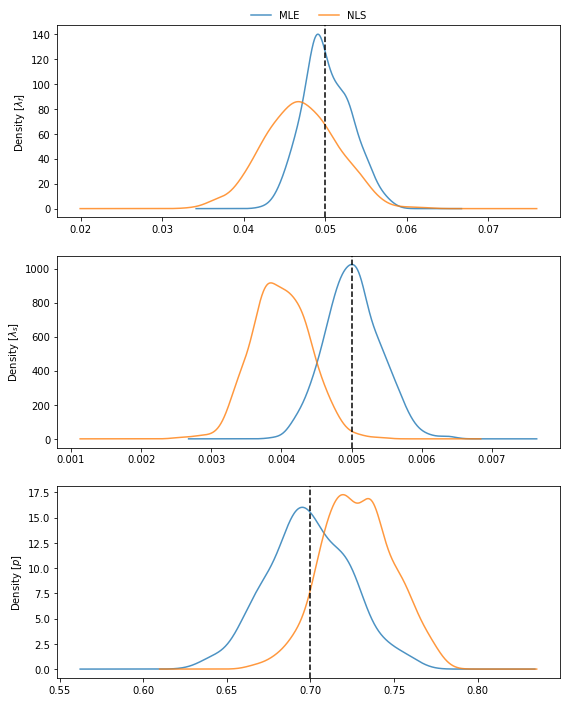
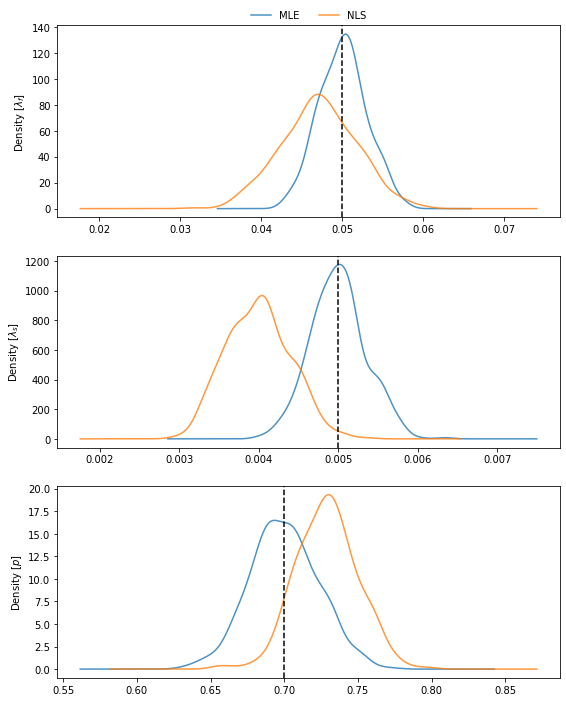
Deploying to gh-pages from  @ b72d17cce69fb50b560b420f28c0cd94753f8277 🚀

diff --git a/searchindex.js b/searchindex.js
@@ -1,1 +1,1 @@
-Search.setIndex({docnames:["bouts","boutsdemo","boutsimuldemo","index","tdr","tdrdemo","tdrphases","tdrsource","zoc"],envversion:{"sphinx.domains.c":2,"sphinx.domains.changeset":1,"sphinx.domains.citation":1,"sphinx.domains.cpp":3,"sphinx.domains.index":1,"sphinx.domains.javascript":2,"sphinx.domains.math":2,"sphinx.domains.python":2,"sphinx.domains.rst":2,"sphinx.domains.std":1,"sphinx.ext.viewcode":1,sphinx:56},filenames:["bouts.rst","boutsdemo.rst","boutsimuldemo.rst","index.rst","tdr.rst","tdrdemo.rst","tdrphases.rst","tdrsource.rst","zoc.rst"],objects:{"":{bouts:[0,0,0,"-"],tdr:[4,0,0,"-"],tdrphases:[6,0,0,"-"],tdrsource:[7,0,0,"-"],zoc:[8,0,0,"-"]},"bouts.Bouts":{bec:[0,2,1,""],fit:[0,2,1,""],init_pars:[0,2,1,""],lnfreq:[0,3,1,""],method:[0,3,1,""],plot_fit:[0,2,1,""],x:[0,3,1,""]},"bouts.BoutsMLE":{bec:[0,2,1,""],fit:[0,2,1,""],loglik_fun:[0,2,1,""],plot_ecdf:[0,2,1,""],plot_fit:[0,2,1,""]},"bouts.BoutsNLS":{bec:[0,2,1,""],fit:[0,2,1,""],plot_ecdf:[0,2,1,""]},"tdr.TDR":{calibrate:[4,2,1,""],calibrate_speed:[4,2,1,""],depth_name:[4,3,1,""],detect_dive_phases:[4,2,1,""],detect_dives:[4,2,1,""],detect_wet:[4,2,1,""],dive_stats:[4,2,1,""],extract_dive:[4,2,1,""],get_depth:[4,2,1,""],get_dive_deriv:[4,2,1,""],get_dives_details:[4,2,1,""],get_phases_params:[4,2,1,""],get_speed:[4,2,1,""],get_tdr:[4,2,1,""],get_wet_activity:[4,2,1,""],has_speed:[4,3,1,""],phases:[4,3,1,""],plot:[4,2,1,""],plot_dive_model:[4,2,1,""],plot_phases:[4,2,1,""],plot_zoc:[4,2,1,""],speed_calib_fit:[4,3,1,""],speed_name:[4,3,1,""],stamp_dives:[4,2,1,""],tdr:[4,3,1,""],tdr_file:[4,3,1,""],time_budget:[4,2,1,""],zoc:[4,2,1,""],zoc_depth:[4,3,1,""]},"tdrphases.TDRPhases":{detect_dive_phases:[6,2,1,""],detect_dives:[6,2,1,""],detect_wet:[6,2,1,""],dives:[6,3,1,""],get_dive_deriv:[6,2,1,""],get_dives_details:[6,2,1,""],get_params:[6,2,1,""],get_wet_activity:[6,2,1,""],params:[6,3,1,""],stamp_dives:[6,2,1,""],time_budget:[6,2,1,""],wet_dry:[6,3,1,""]},"tdrsource.TDRSource":{depth_name:[7,3,1,""],get_depth:[7,2,1,""],get_speed:[7,2,1,""],get_tdr:[7,2,1,""],has_speed:[7,3,1,""],speed_name:[7,3,1,""],tdr:[7,3,1,""],tdr_file:[7,3,1,""]},"zoc.ZOC":{__call__:[8,2,1,""],__init__:[8,2,1,""],__weakref__:[8,3,1,""],depth_zoc:[8,3,1,""],filter_depth:[8,2,1,""],filters:[8,3,1,""],get_depth:[8,2,1,""],get_params:[8,2,1,""],method:[8,3,1,""],offset_depth:[8,2,1,""],params:[8,3,1,""]},bouts:{Bouts:[0,1,1,""],BoutsMLE:[0,1,1,""],BoutsNLS:[0,1,1,""],label_bouts:[0,4,1,""]},tdr:{TDR:[4,1,1,""]},tdrphases:{TDRPhases:[6,1,1,""]},tdrsource:{TDRSource:[7,1,1,""]},zoc:{ZOC:[8,1,1,""]}},objnames:{"0":["py","module","Python module"],"1":["py","class","Python class"],"2":["py","method","Python method"],"3":["py","attribute","Python attribute"],"4":["py","function","Python function"]},objtypes:{"0":"py:module","1":"py:class","2":"py:method","3":"py:attribute","4":"py:function"},terms:{"000e":2,"012e":[1,5],"016e":2,"021e":2,"039e":1,"047e":5,"054e":2,"05t11":5,"07t":5,"07t11":5,"110e":[1,2],"120e":[1,5],"139e":1,"140e":2,"191e":1,"217e":1,"272e":2,"277e":5,"279e":2,"283e":5,"297e":1,"317e":[1,5],"34199nan":5,"375e":1,"381e":1,"388e":1,"399e":2,"3x3":1,"406e":5,"415e":2,"450e":5,"457e":1,"462e":5,"464e":1,"468e":1,"485e":5,"508e":5,"511e":1,"515e":1,"544e":5,"554e":2,"559e":2,"570e":1,"574e":1,"591e":5,"5sampling_rate_unit":5,"611e":1,"630e":5,"724e":2,"753e":2,"759e":1,"773e":5,"778e":1,"780e":5,"793e":1,"797e":1,"806e":1,"834e":1,"857e":5,"911e":1,"916e":2,"918e":2,"922e":1,"934e":1,"962e":1,"982e":5,"983e":2,"989e":5,"990e":2,"abstract":3,"break":0,"case":0,"class":[1,3,5],"default":[0,4,8],"float":[0,4,6],"function":[0,1,2,3,4,5,8],"import":[1,2,3,4,5,7],"int":[4,6],"null":1,"return":[0,1,2,4,6,7,8],"super":0,"true":[0,1,2,4,5,6,7,8],Axes:[0,4],For:[0,1,2,4,5,8],Iles:5,NLS:[0,1,3],N_s:0,One:0,The:[0,1,2,3,4],These:0,Use:7,Using:4,__call__:8,__init__:[5,8],__weakref__:8,_factr:1,_fig1x1:[1,5],_fig1x2:1,_fig2x1:5,_fig3x1:[1,2,5],abov:[0,2,4],abs:1,access:4,accessor:[5,6,8],accord:0,accumul:2,activ:[4,6],add:0,added:0,addit:4,ag_022:5,ag_mk7_2002_022:5,again:1,agplv3:5,aim:4,algorithm:1,all:[0,4,6],allow:[1,5],along:2,also:[0,3],altern:[2,5],analys:3,analysi:3,animal_id:5,animal_species_common:5,animal_species_sci:5,anoth:1,antarct:5,api:[3,5],append:2,appli:[0,4,5,8],applic:6,approach:[0,1],appropri:1,aquat:6,archiv:5,arctocephalu:5,arg:4,argument:[0,4,6,8],arrai:[0,1,5,7,8],array_lik:[0,4,6],as_diff:[0,1],asc_angl:1,asc_mean_spe:1,asc_tdist:1,ascd_25:[1,5],ascd_50:[1,5],ascd_75:[1,5],ascd_max:[1,5],ascd_mean:[1,5],ascd_min:[1,5],ascd_std:[1,5],ascdist:[1,5],ascent:6,ascent_crit:5,ascent_crit_q:[1,4,5,6],ascent_crit_r:5,asctim:[1,5],assess:2,assum:[0,1],attempt:[0,1],attribut:[0,4,6],avail:[1,3],averag:0,axes:5,axi:[1,4],axs:1,bad:4,bandwidth:5,base:[0,1,4,7],basi:0,basic:0,bec:[0,1],beg:[1,5],begasc:[1,5],begdesc:[1,5],begin:[4,5,6],behaviour:[0,3],belong:0,below:0,between:[0,1],bfg:[1,2],bia:2,bin:[0,1],biologiqu:5,bird:5,bivari:4,bnd1:1,bnd2:1,bool:[0,4,6,7],bott_mean_spe:1,bott_tdist:1,bottd_25:1,bottd_50:1,bottd_75:1,bottd_max:1,bottd_mean:1,bottd_min:1,bottd_std:1,bottdep_mean:1,bottdep_median:1,bottdep_sd:1,bottdist:[1,5],bottom:6,botttim:[1,5],bound:[1,2],bout:3,boutsdemo:1,boutsimuldemo:2,boutsml:[0,1,2],boutsnl:[0,1,2],brief:1,broadest:[4,6],broken:[0,3],budget:3,build:0,built:0,bz2:4,calc_p:2,calcul:[0,3,4],calib_depth:4,calib_spe:4,calibr:[1,3],calibrate_spe:[4,5],calibratedepth:[4,6,8],can:[0,2,3,4,5,6],capabl:4,categor:6,ccvar:5,center:0,centr:5,central:2,chang:[4,5],character:2,chize:5,choos:1,chooser:2,chosen:[0,8],classifi:0,clone:3,coef:[0,2,5],coeffici:[0,1],coefs2:1,coefs3:1,coefs_i:2,coefs_ml:2,coefs_nl:2,collect:2,column:[0,1,2,4,5,6],column_nam:5,com:[3,5],come:[0,4,7],command:3,compar:[1,3],comparison:[1,2],complet:[4,6],comprehens:4,compress:4,comput:[4,5],concat:1,concur_var:[4,5],concur_var_titl:4,concurr:5,consid:[1,5],construct:[0,4],contour:4,contour_level:4,control:5,conveni:4,converg:1,convert:[1,2],coordin:5,copi:[1,2,4,5],core:[1,6],correct:[4,5,6,8],correspond:[0,4,6],count:[1,2],covari:[0,1],creat:[0,1],crit_val:[5,6],criteria:0,criterion:[0,1],crozet:5,csv:[4,5],csvxarrai:5,cumul:[0,1],current:0,dai:5,data:[0,1,3,4,6,7],data_creation_d:5,data_format:5,data_nfil:5,data_path:4,data_sourc:5,dataarrai:[4,5,6,7,8],datafram:[0,1,2,4,6,8],dataset:[4,7],date:5,date_tim:5,datetime64:[1,5],declar:2,def:2,defin:[2,4,7,8],definit:7,demo:[1,2,5],densiti:[0,2,4],dep:5,dep_device_regional_set:5,dep_device_tzon:5,dep_id:5,deploy_device_time_on:5,deploy_lat:5,deploy_loc:5,deploy_lon:5,deploy_method:5,depth:[3,4,5,6,7,8],depth_bound:[4,8],depth_deriv:4,depth_lim:[4,5],depth_nam:[4,5,7],depth_zoc:8,depthax:5,depthdescript:5,depthunit:5,deriv:[4,6],desc_angl:1,desc_mean_spe:1,desc_tdist:1,descd_25:1,descd_50:1,descd_75:1,descd_max:1,descd_mean:1,descd_min:1,descd_std:1,descdist:[1,5],descent:6,descent_crit:5,descent_crit_q:[1,4,5,6],descent_crit_r:5,describ:[0,2],descript:5,desctim:[1,5],detail:[4,6,8],detect:[5,6],detect_d:[4,6],detect_dive_phas:[4,6],detect_wet:[4,6],determin:0,dev:3,device_mak:5,device_model:5,device_typ:5,dfile:5,dict:[1,2,4,5,6,8],dictionari:[0,4,6,8],diff:[0,1],differ:5,dirnam:5,discern:[0,1],displai:[1,2,5],distribut:[0,1,2],dive:[1,3,4,6],dive_id:5,dive_model:[1,4,5,6],dive_phas:5,dive_stat:[1,4,5],dive_thr:[1,4,5,6],divemov:[4,5,6,8],divemove2skd:[1,4,5,7],diveno:[4,5,6],divestat:4,divetim:[1,5],doe:[0,1],done:[1,5],download:[1,2,5],dry:[4,5,6],dry_thr:[1,4,5,6],dtype:[1,2,5],durat:[3,5],each:[0,2,4,5,6],easili:[1,3],element:[0,4,6],empir:0,empti:0,encapsul:4,end:[0,1,4,5,6],enddesc:[1,5],energet:5,ensur:7,entri:1,environ:[1,2,5],epsmch:1,equat:0,err:5,estim:[0,3,4],etud:5,event:[0,4,6],exampl:[4,5,7],exponenti:2,express:0,extract:[1,4],extract_d:4,eye:5,fail:1,fals:[0,2,4,5,6,7],fast:0,feel:[1,2,5],fewer:1,fig:[1,5],figsiz:[1,4,5],figur:[1,2,4,5],file:[3,4,7],fill:[4,6],filter:[3,4,8],filter_depth:8,find:0,finer:5,first:[0,1],fit1:[0,1,2],fit1_opt:[0,1,2],fit2:[0,1,2],fit2_opt:[0,1,2],fit:[0,1,2,4],fix:2,float64:[1,2],fname:4,focu:3,follow:[0,2,3,5],forag:5,form:0,format:1,found:4,frac:0,frame:1,framework:0,franc:5,free:[1,2,5],frequenc:[0,1],from:[0,1,2,3,4,7],full_nam:5,fun:1,fur:5,further:[1,2],gazella:5,gca:0,gener:[0,1,3],genx:2,get_depth:[4,5,7,8],get_dive_deriv:[4,6],get_divemove_sample_data:4,get_dives_detail:[4,5,6],get_param:[6,8],get_phases_param:[4,5],get_spe:[4,7],get_tdr:[4,7],get_wet_act:[4,5,6],getcwd:5,git:3,github:3,given:[0,1,4,6],glu:5,gmail:5,greater:4,group:2,guess:1,guinet:2,h2o:5,h2ounits_nam:5,hacker:3,handl:[0,3,6],has:3,has_spe:[4,5,7],have:[0,1],help:1,helper:5,henc:0,here:[1,2,5],hess_inv:1,histogram:[0,1],home:5,homolog:4,host:3,http:3,identif:[0,4,6],identifi:[4,6],ifil:5,ignor:[4,6],ignore_du:[4,5,6],ignore_z:[1,4,5,6],implement:0,impli:0,includ:[4,7],independ:0,index:[0,3,6],indian:5,indic:[0,4,7],info:1,inform:[4,6],init_par:[0,1,2],init_pars2:1,init_pars3:1,initi:8,inlin:[1,2,5],input:[0,4,6,7],instanc:[0,1,4,6],instanti:4,int64:1,int64index:1,integ:0,interact:4,intercept:5,interd:1,interfac:3,interp_wet:[4,6],interv:[1,5],involv:1,isol:1,iter:2,jac:1,job:5,join:5,jul:5,kei:[4,6],kernel:4,keyword:[0,4,8],kind:4,kinemat:3,knot_factor:[1,4,5,6],kwarg:[0,4,7,8],l_2:0,label:[1,4,6],label_bout:[0,1],lambda0:2,lambda1:[1,2],lambda2:1,lambda:[0,1,2],lambda_:[0,2],lambda_f:[0,2],larger:[4,5],last:1,lbfgsinvhessproduct:1,lda0:2,lda0_bnd:2,lda0_tru:2,lda1:2,lda1_bnd:[1,2],lda1_tru:2,lda2_bnd:1,least:[3,5],length:[0,1,4],level:4,light:5,likelihood:3,limit:[0,4],line:[3,4],linear:[0,3],list:[0,3,4,5,8],lnfreq:[0,1],load:[1,5],loc:2,locat:3,log:[0,1,5],logger:[1,5],loglik_fun:0,loop:2,loos:5,low:4,luqu:[2,5],mai:1,main:3,major:4,manner:5,mask:[4,6],match:0,matplotlib:[0,1,2,4,5],max:[1,2],maxdep:1,maximum:[3,4],mean:[1,2],measur:[3,4,6,7,8],memori:1,mesh:4,messag:1,metaclass:0,metadata:7,meter:5,meterscolumn_nam:5,method:[1,2,3,5],min:[1,2],minim:0,minimum:4,minor:4,miscellan:3,mix:[0,2],mixtur:[0,1,3],mk7:5,mle:3,mle_coef:2,mlm:1,model:[2,3,4,5,6],modifi:1,modul:[1,4,5],monitor:[1,5],more:[0,4,8],must:[0,3],mustwork:4,n_f:0,n_t:0,na_rm:[4,8],name:[0,1,4,5,6,7,8],nan:5,nanarrai:5,ndarrai:[0,1],necessari:1,need:[0,1,2,3],nfev:1,nit:1,njev:1,nls_coef:2,non:[0,3],none:[0,1,2,4,5,6,8],nonlinear:[2,3],note:[0,1,4,6,8],nsamp:2,nsim:2,number:[0,2,4,5,6],numpi:[1,2,5],object:[0,1,4,5,8],observ:[0,5,8],obtain:[0,2,4],occur:0,ocean:5,offer:0,offset:[1,4,5,6,8],offset_depth:8,offset_zoc:[1,5],onc:3,one:[0,1,2],ones:0,onli:[0,1,2,4,5],oper:[2,4,6],optim:[0,1],optimizeresult:0,option:[0,1,4,6,8],opts1:2,opts2:2,order:0,osp:[1,5],other:[0,5],otherwis:1,out:[0,4,6],output:8,over:0,p_bnd:[1,2],p_i:2,p_true:2,packag:[3,4],page:3,panda:[0,1,2,4,5,6,8],par:[1,5],param:[0,6,8],paramet:[0,1,2,4,5,6,8],paramt:0,pars_tru:2,particular:[4,5],pass:[0,4,8],path:[1,4,5],pcov2:1,pcov3:1,pcov:0,per:0,perform:[2,4,5,8],period:6,pfull_nam:5,phase:6,phase_id:[1,5],phase_label:5,pip:3,pleas:5,plot:[0,1,2,3],plot_dive_model:[4,5],plot_ecdf:[0,1],plot_fit:[0,1],plot_phas:[4,5],plot_zoc:[4,5],plt:[1,2],plu:0,poisson:[0,1,2],popul:0,postdiv:3,postdive_dur:[1,5],postdive_id:5,postdive_mean_spe:[1,5],postdive_tdist:[1,5],postdives_diff:1,postdives_mlebout:1,postdives_nlsbout:1,precis:[1,2,5],prefer:0,pressur:5,previou:0,primarili:3,print:[1,5,7],prob:[4,8],probabl:[0,4],proc1:2,proc2:2,proc_mix:2,procedur:[0,1],process:[0,3,4,5],progress:[1,5],project:3,project_date_beg:5,project_date_end:5,project_nam:5,prompt:3,proport:0,provid:[0,1,3,4,6],provider_affili:5,provider_email:5,provider_licens:5,provider_nam:5,pseudo:[5,7],pyplot:[0,1,2,4],pytest:3,python:3,qfit:5,quantil:4,quantreg:[4,5],random:[0,1,2],rang:[2,4,5,8],rate:[2,4],read:3,readili:2,reason:[0,1],record:[3,4,5],refer:8,regress:[4,5],regular:5,regularsampling_r:5,rel:2,rel_reduction_of_f_:1,reli:[0,1],remov:1,reparameter:1,repres:3,requir:[1,3],residu:5,respect:[0,4],result:[0,2,5],retriev:[4,6],robj:4,robust:0,roll:2,routin:6,row:5,row_id:[4,5,6],row_stack:2,rstr:4,run:3,runner:5,salt:5,same:[0,5],sampl:[0,2,5],sampling_r:5,sampling_rate_unit:5,save:4,save_fig:4,scale:[0,2,4,6],scientif:3,scikit:5,scipi:0,seal:5,search:3,sebastian:5,second:[0,1],section:[1,4,5],see:[4,5,6],seem:1,select:4,sensors_list:5,sep:4,seri:[0,2,5,6],session:4,set:[0,1,2,4,5,6],set_opt:[1,2,5],set_printopt:[1,2,5],set_titl:1,setup:3,shape:0,should:4,sign:[1,2,5],simpli:5,simplifi:2,simul:3,singl:[0,5],size:[1,2,5],skbout:[1,2],skdive:[3,5],skdivemov:[1,2,3,4,5,7],slow:0,smooth:[4,6],smooth_par:[1,4,5,6],sname:5,solut:0,sort:0,sourc:[0,3,4,5,6,7,8],southern:5,sparsiti:5,speed:[4,7],speed_calib_fit:4,speed_nam:[4,7],spline:[4,6],spline_deriv:[5,6],spluqu:[3,5],squar:[3,5],stamp:[1,3,6],stamp_div:[1,4,5,6],standard:[0,1,7],start:[0,1],stat:1,statist:[1,3,4],stats_tab:1,statu:1,std:[1,2,5],step:[1,5],stepwis:5,stick:[0,3],store:[4,6],str:[0,4,6,7,8],string:[4,7],subantarct:5,subclass:[0,4],subject:[0,1],subplot:[1,4],success:1,sum_:0,summar:3,summari:[3,5],sun:5,suppli:1,surfac:[4,5],system:4,t_i:0,take:6,target:0,tau:4,tdr:[1,3,6,7],tdr_file:[4,7],tdrdemo:5,tdrphase:[3,4],tdrsourc:[3,4],tdrx:[1,4,5,7],temperatur:5,termin:3,test:[1,4,5,7],than:[4,5],therefor:1,thi:[0,1,2,4,5,6,8],third:0,three:6,threshold:4,throughout:2,thy:6,time:[2,3,4,6],time_budget:[4,5,6],timedelta64:1,timedelta:1,to_numpi:2,tool:0,total:[1,5],total_second:1,transform:0,transit:0,tree:3,trivial:6,tupl:4,two:[0,3,4],type:[0,1,3,4,6,7,8],underli:0,underwat:6,uniform:2,unimod:[1,4,5,6],unit:5,units_label:5,units_nam:5,unittest:3,unlik:[4,6],updat:[4,6],upper:0,usag:1,use:[0,4,5,8],used:[0,4,6,8],user:3,using:[0,4,5],util:3,valu:[0,1,2,4,5],variabl:[1,2,4,5,7],varianc:2,via:[0,3,4,6],view:5,vignett:5,visual:[2,3],wai:1,weak:8,were:4,wet:[4,5,6],wet_act:[4,6],wet_cond:[4,6],wet_dri:[4,5,6],wet_thr:[1,4,5,6],when:6,where:[0,2,4,7],whether:[0,4,6,7],which:[3,4,6],width:[0,1],wildlif:5,window:4,without:1,work:5,would:0,wrap:4,x27:5,x_break:0,xarrai:[4,5,6,7,8],xbout:2,xlim:[4,5],ylim:4,yyyi:5,zero:[4,5,6,8],zoc:[3,4,5],zoc_depth:4,zoc_method:[1,4,5]},titles:["Bout analysis","Bout analysis","Simulating bouts","scikit-diveMove Documentation","TDR class","Diving behaviour analysis","TDRPhases class","TDRSource class","ZOC class"],titleterms:{"abstract":0,"class":[0,4,6,7,8],NLS:2,access:5,analys:4,analysi:[0,1,5],api:[0,4],attribut:5,behaviour:5,bout:[0,1,2],broken:1,budget:5,calcul:1,calibr:[4,5],compar:2,data:5,demo:3,depend:3,detect:4,develop:3,dive:5,divemov:3,document:3,durat:1,estim:[1,2],file:5,gener:2,indic:3,instal:3,instanc:5,least:[0,1,2],likelihood:[0,1,2],linear:[1,2],main:4,maximum:[0,1,2],measur:5,method:[0,4,6,8],mixtur:2,mle:2,model:[0,1],modul:3,non:[1,2],nonlinear:0,phase:[4,5],plot:[4,5],postdiv:1,process:[1,2],read:5,scikit:3,simul:2,speed:5,squar:[0,1,2],stamp:5,statist:5,stick:1,summari:[0,4,6,8],tabl:3,tdr:[4,5],tdrphase:6,tdrsourc:7,test:3,three:1,time:5,two:[1,2],via:1,zoc:8}})
+Search.setIndex({docnames:["bouts","boutsdemo","boutsimuldemo","index","tdr","tdrdemo","tdrphases","tdrsource","zoc"],envversion:{"sphinx.domains.c":2,"sphinx.domains.changeset":1,"sphinx.domains.citation":1,"sphinx.domains.cpp":3,"sphinx.domains.index":1,"sphinx.domains.javascript":2,"sphinx.domains.math":2,"sphinx.domains.python":2,"sphinx.domains.rst":2,"sphinx.domains.std":1,"sphinx.ext.viewcode":1,sphinx:56},filenames:["bouts.rst","boutsdemo.rst","boutsimuldemo.rst","index.rst","tdr.rst","tdrdemo.rst","tdrphases.rst","tdrsource.rst","zoc.rst"],objects:{"":{bouts:[0,0,0,"-"],tdr:[4,0,0,"-"],tdrphases:[6,0,0,"-"],tdrsource:[7,0,0,"-"],zoc:[8,0,0,"-"]},"bouts.Bouts":{bec:[0,2,1,""],fit:[0,2,1,""],init_pars:[0,2,1,""],lnfreq:[0,3,1,""],method:[0,3,1,""],plot_fit:[0,2,1,""],x:[0,3,1,""]},"bouts.BoutsMLE":{bec:[0,2,1,""],fit:[0,2,1,""],loglik_fun:[0,2,1,""],plot_ecdf:[0,2,1,""],plot_fit:[0,2,1,""]},"bouts.BoutsNLS":{bec:[0,2,1,""],fit:[0,2,1,""],plot_ecdf:[0,2,1,""]},"tdr.TDR":{calibrate:[4,2,1,""],calibrate_speed:[4,2,1,""],depth_name:[4,3,1,""],detect_dive_phases:[4,2,1,""],detect_dives:[4,2,1,""],detect_wet:[4,2,1,""],dive_stats:[4,2,1,""],extract_dive:[4,2,1,""],get_depth:[4,2,1,""],get_dive_deriv:[4,2,1,""],get_dives_details:[4,2,1,""],get_phases_params:[4,2,1,""],get_speed:[4,2,1,""],get_tdr:[4,2,1,""],get_wet_activity:[4,2,1,""],has_speed:[4,3,1,""],phases:[4,3,1,""],plot:[4,2,1,""],plot_dive_model:[4,2,1,""],plot_phases:[4,2,1,""],plot_zoc:[4,2,1,""],speed_calib_fit:[4,3,1,""],speed_name:[4,3,1,""],stamp_dives:[4,2,1,""],tdr:[4,3,1,""],tdr_file:[4,3,1,""],time_budget:[4,2,1,""],zoc:[4,2,1,""],zoc_depth:[4,3,1,""]},"tdrphases.TDRPhases":{detect_dive_phases:[6,2,1,""],detect_dives:[6,2,1,""],detect_wet:[6,2,1,""],dives:[6,3,1,""],get_dive_deriv:[6,2,1,""],get_dives_details:[6,2,1,""],get_params:[6,2,1,""],get_wet_activity:[6,2,1,""],params:[6,3,1,""],stamp_dives:[6,2,1,""],time_budget:[6,2,1,""],wet_dry:[6,3,1,""]},"tdrsource.TDRSource":{depth_name:[7,3,1,""],get_depth:[7,2,1,""],get_speed:[7,2,1,""],get_tdr:[7,2,1,""],has_speed:[7,3,1,""],speed_name:[7,3,1,""],tdr:[7,3,1,""],tdr_file:[7,3,1,""]},"zoc.ZOC":{__call__:[8,2,1,""],__init__:[8,2,1,""],__weakref__:[8,3,1,""],depth_zoc:[8,3,1,""],filter_depth:[8,2,1,""],filters:[8,3,1,""],get_depth:[8,2,1,""],get_params:[8,2,1,""],method:[8,3,1,""],offset_depth:[8,2,1,""],params:[8,3,1,""]},bouts:{Bouts:[0,1,1,""],BoutsMLE:[0,1,1,""],BoutsNLS:[0,1,1,""],label_bouts:[0,4,1,""]},tdr:{TDR:[4,1,1,""]},tdrphases:{TDRPhases:[6,1,1,""]},tdrsource:{TDRSource:[7,1,1,""]},zoc:{ZOC:[8,1,1,""]}},objnames:{"0":["py","module","Python module"],"1":["py","class","Python class"],"2":["py","method","Python method"],"3":["py","attribute","Python attribute"],"4":["py","function","Python function"]},objtypes:{"0":"py:module","1":"py:class","2":"py:method","3":"py:attribute","4":"py:function"},terms:{"000e":2,"012e":[1,5],"016e":2,"017e":2,"039e":1,"047e":5,"05t11":5,"07t":5,"07t11":5,"110e":1,"120e":[1,5],"139e":1,"191e":1,"199e":2,"217e":1,"254e":2,"277e":5,"283e":5,"297e":1,"317e":[1,5],"330e":2,"338e":2,"34199nan":5,"375e":1,"381e":1,"388e":1,"3x3":1,"406e":5,"450e":5,"457e":1,"462e":5,"464e":1,"468e":1,"472e":2,"483e":2,"485e":5,"508e":5,"511e":1,"515e":1,"519e":2,"544e":5,"570e":1,"574e":1,"591e":5,"5sampling_rate_unit":5,"611e":1,"630e":5,"700e":2,"759e":1,"764e":2,"773e":5,"778e":1,"780e":5,"793e":1,"797e":1,"806e":1,"834e":1,"857e":5,"911e":1,"922e":1,"934e":1,"949e":2,"962e":1,"982e":5,"989e":5,"993e":2,"995e":2,"998e":2,"abstract":3,"break":0,"case":0,"class":[1,3,5],"default":[0,4,8],"float":[0,4,6],"function":[0,1,2,3,4,5,8],"import":[1,2,3,4,5,7],"int":[4,6],"null":1,"return":[0,1,2,4,6,7,8],"super":0,"true":[0,1,2,4,5,6,7,8],Axes:[0,4],For:[0,1,2,4,5,8],Iles:5,NLS:[0,1,3],N_s:0,One:0,The:[0,1,2,3,4],These:0,Use:7,Using:4,__call__:8,__init__:[5,8],__weakref__:8,_factr:1,_fig1x1:[1,5],_fig1x2:1,_fig2x1:5,_fig3x1:[1,2,5],abov:[0,2,4],abs:1,access:4,accessor:[5,6,8],accord:0,accumul:2,activ:[4,6],add:0,added:0,addit:4,ag_022:5,ag_mk7_2002_022:5,again:1,agplv3:5,aim:4,algorithm:1,all:[0,4,6],allow:[1,5],along:2,also:[0,3],altern:[2,5],analys:3,analysi:3,animal_id:5,animal_species_common:5,animal_species_sci:5,anoth:1,antarct:5,api:[3,5],append:2,appli:[0,4,5,8],applic:6,approach:[0,1],appropri:1,aquat:6,archiv:5,arctocephalu:5,arg:4,argument:[0,4,6,8],arrai:[0,1,5,7,8],array_lik:[0,4,6],as_diff:[0,1],asc_angl:1,asc_mean_spe:1,asc_tdist:1,ascd_25:[1,5],ascd_50:[1,5],ascd_75:[1,5],ascd_max:[1,5],ascd_mean:[1,5],ascd_min:[1,5],ascd_std:[1,5],ascdist:[1,5],ascent:6,ascent_crit:5,ascent_crit_q:[1,4,5,6],ascent_crit_r:5,asctim:[1,5],assess:2,assum:[0,1],attempt:[0,1],attribut:[0,4,6],avail:[1,3],averag:0,axes:5,axi:[1,4],axs:1,bad:4,bandwidth:5,base:[0,1,4,7],basi:0,basic:0,bec:[0,1],beg:[1,5],begasc:[1,5],begdesc:[1,5],begin:[4,5,6],behaviour:[0,3],belong:0,below:0,between:[0,1],bfg:[1,2],bia:2,bin:[0,1],biologiqu:5,bird:5,bivari:4,bnd1:1,bnd2:1,bool:[0,4,6,7],bott_mean_spe:1,bott_tdist:1,bottd_25:1,bottd_50:1,bottd_75:1,bottd_max:1,bottd_mean:1,bottd_min:1,bottd_std:1,bottdep_mean:1,bottdep_median:1,bottdep_sd:1,bottdist:[1,5],bottom:6,botttim:[1,5],bound:[1,2],bout:3,boutsdemo:1,boutsimuldemo:2,boutsml:[0,1,2],boutsnl:[0,1,2],brief:1,broadest:[4,6],broken:[0,3],budget:3,build:0,built:0,bz2:4,calc_p:2,calcul:[0,3,4],calib_depth:4,calib_spe:4,calibr:[1,3],calibrate_spe:[4,5],calibratedepth:[4,6,8],can:[0,2,3,4,5,6],capabl:4,categor:6,ccvar:5,center:0,centr:5,central:2,chang:[4,5],character:2,chize:5,choos:1,chooser:2,chosen:[0,8],classifi:0,clone:3,coef:[0,2,5],coeffici:[0,1],coefs2:1,coefs3:1,coefs_i:2,coefs_ml:2,coefs_nl:2,collect:2,column:[0,1,2,4,5,6],column_nam:5,com:[3,5],come:[0,4,7],command:3,compar:[1,3],comparison:[1,2],complet:[4,6],comprehens:4,compress:4,comput:[4,5],concat:1,concur_var:[4,5],concur_var_titl:4,concurr:5,consid:[1,5],construct:[0,4],contour:4,contour_level:4,control:5,conveni:4,converg:1,convert:[1,2],coordin:5,copi:[1,2,4,5],core:[1,6],correct:[4,5,6,8],correspond:[0,4,6],count:[1,2],covari:[0,1],creat:[0,1],crit_val:[5,6],criteria:0,criterion:[0,1],crozet:5,csv:[4,5],csvxarrai:5,cumul:[0,1],current:0,dai:5,data:[0,1,3,4,6,7],data_creation_d:5,data_format:5,data_nfil:5,data_path:4,data_sourc:5,dataarrai:[4,5,6,7,8],datafram:[0,1,2,4,6,8],dataset:[4,7],date:5,date_tim:5,datetime64:[1,5],declar:2,def:2,defin:[2,4,7,8],definit:7,demo:[1,2,5],densiti:[0,2,4],dep:5,dep_device_regional_set:5,dep_device_tzon:5,dep_id:5,deploy_device_time_on:5,deploy_lat:5,deploy_loc:5,deploy_lon:5,deploy_method:5,depth:[3,4,5,6,7,8],depth_bound:[4,8],depth_deriv:4,depth_lim:[4,5],depth_nam:[4,5,7],depth_zoc:8,depthax:5,depthdescript:5,depthunit:5,deriv:[4,6],desc_angl:1,desc_mean_spe:1,desc_tdist:1,descd_25:1,descd_50:1,descd_75:1,descd_max:1,descd_mean:1,descd_min:1,descd_std:1,descdist:[1,5],descent:6,descent_crit:5,descent_crit_q:[1,4,5,6],descent_crit_r:5,describ:[0,2],descript:5,desctim:[1,5],detail:[4,6,8],detect:[5,6],detect_d:[4,6],detect_dive_phas:[4,6],detect_wet:[4,6],determin:0,dev:3,device_mak:5,device_model:5,device_typ:5,dfile:5,dict:[1,2,4,5,6,8],dictionari:[0,4,6,8],diff:[0,1],differ:5,dirnam:5,discern:[0,1],displai:[1,2,5],distribut:[0,1,2],dive:[1,3,4,6],dive_id:5,dive_model:[1,4,5,6],dive_phas:5,dive_stat:[1,4,5],dive_thr:[1,4,5,6],divemov:[4,5,6,8],divemove2skd:[1,4,5,7],diveno:[4,5,6],divestat:4,divetim:[1,5],doe:[0,1],done:[1,5],download:[1,2,5],dry:[4,5,6],dry_thr:[1,4,5,6],dtype:[1,2,5],durat:[3,5],each:[0,2,4,5,6],easili:[1,3],element:[0,4,6],empir:0,empti:0,encapsul:4,end:[0,1,4,5,6],enddesc:[1,5],energet:5,ensur:7,entri:1,environ:[1,2,5],epsmch:1,equat:0,err:5,estim:[0,3,4],etud:5,event:[0,4,6],exampl:[4,5,7],exponenti:2,express:0,extract:[1,4],extract_d:4,eye:5,fail:1,fals:[0,2,4,5,6,7],fast:0,feel:[1,2,5],fewer:1,fig:[1,5],figsiz:[1,4,5],figur:[1,2,4,5],file:[3,4,7],fill:[4,6],filter:[3,4,8],filter_depth:8,find:0,finer:5,first:[0,1],fit1:[0,1,2],fit1_opt:[0,1,2],fit2:[0,1,2],fit2_opt:[0,1,2],fit:[0,1,2,4],fix:2,float64:[1,2],fname:4,focu:3,follow:[0,2,3,5],forag:5,form:0,format:1,found:4,frac:0,frame:1,framework:0,franc:5,free:[1,2,5],frequenc:[0,1],from:[0,1,2,3,4,7],full_nam:5,fun:1,fur:5,further:[1,2],gazella:5,gca:0,gener:[0,1,3],genx:2,get_depth:[4,5,7,8],get_dive_deriv:[4,6],get_divemove_sample_data:4,get_dives_detail:[4,5,6],get_param:[6,8],get_phases_param:[4,5],get_spe:[4,7],get_tdr:[4,7],get_wet_act:[4,5,6],getcwd:5,git:3,github:3,given:[0,1,4,6],glu:5,gmail:5,greater:4,group:2,guess:1,guinet:2,h2o:5,h2ounits_nam:5,hacker:3,handl:[0,3,6],has:3,has_spe:[4,5,7],have:[0,1],help:1,helper:5,henc:0,here:[1,2,5],hess_inv:1,histogram:[0,1],home:5,homolog:4,host:3,http:3,identif:[0,4,6],identifi:[4,6],ifil:5,ignor:[4,6],ignore_du:[4,5,6],ignore_z:[1,4,5,6],implement:0,impli:0,includ:[4,7],independ:0,index:[0,3,6],indian:5,indic:[0,4,7],info:1,inform:[4,6],init_par:[0,1,2],init_pars2:1,init_pars3:1,initi:8,inlin:[1,2,5],input:[0,4,6,7],instanc:[0,1,4,6],instanti:4,int64:1,int64index:1,integ:0,interact:4,intercept:5,interd:1,interfac:3,interp_wet:[4,6],interv:[1,5],involv:1,isol:1,iter:2,jac:1,job:5,join:5,jul:5,kei:[4,6],kernel:4,keyword:[0,4,8],kind:4,kinemat:3,knot_factor:[1,4,5,6],kwarg:[0,4,7,8],l_2:0,label:[1,4,6],label_bout:[0,1],lambda0:2,lambda1:[1,2],lambda2:1,lambda:[0,1,2],lambda_:[0,2],lambda_f:[0,2],larger:[4,5],last:1,lbfgsinvhessproduct:1,lda0:2,lda0_bnd:2,lda0_tru:2,lda1:2,lda1_bnd:[1,2],lda1_tru:2,lda2_bnd:1,least:[3,5],length:[0,1,4],level:4,light:5,likelihood:3,limit:[0,4],line:[3,4],linear:[0,3],list:[0,3,4,5,8],lnfreq:[0,1],load:[1,5],loc:2,locat:3,log:[0,1,5],logger:[1,5],loglik_fun:0,loop:2,loos:5,low:4,luqu:[2,5],mai:1,main:3,major:4,manner:5,mask:[4,6],match:0,matplotlib:[0,1,2,4,5],max:[1,2],maxdep:1,maximum:[3,4],mean:[1,2],measur:[3,4,6,7,8],memori:1,mesh:4,messag:1,metaclass:0,metadata:7,meter:5,meterscolumn_nam:5,method:[1,2,3,5],min:[1,2],minim:0,minimum:4,minor:4,miscellan:3,mix:[0,2],mixtur:[0,1,3],mk7:5,mle:3,mle_coef:2,mlm:1,model:[2,3,4,5,6],modifi:1,modul:[1,4,5],monitor:[1,5],more:[0,4,8],must:[0,3],mustwork:4,n_f:0,n_t:0,na_rm:[4,8],name:[0,1,4,5,6,7,8],nan:5,nanarrai:5,ndarrai:[0,1],necessari:1,need:[0,1,2,3],nfev:1,nit:1,njev:1,nls_coef:2,non:[0,3],none:[0,1,2,4,5,6,8],nonlinear:[2,3],note:[0,1,4,6,8],nsamp:2,nsim:2,number:[0,2,4,5,6],numpi:[1,2,5],object:[0,1,4,5,8],observ:[0,5,8],obtain:[0,2,4],occur:0,ocean:5,offer:0,offset:[1,4,5,6,8],offset_depth:8,offset_zoc:[1,5],onc:3,one:[0,1,2],ones:0,onli:[0,1,2,4,5],oper:[2,4,6],optim:[0,1],optimizeresult:0,option:[0,1,4,6,8],opts1:2,opts2:2,order:0,osp:[1,5],other:[0,5],otherwis:1,out:[0,4,6],output:8,over:0,p_bnd:[1,2],p_i:2,p_true:2,packag:[3,4],page:3,panda:[0,1,2,4,5,6,8],par:[1,5],param:[0,6,8],paramet:[0,1,2,4,5,6,8],paramt:0,pars_tru:2,particular:[4,5],pass:[0,4,8],path:[1,4,5],pcov2:1,pcov3:1,pcov:0,per:0,perform:[2,4,5,8],period:6,pfull_nam:5,phase:6,phase_id:[1,5],phase_label:5,pip:3,pleas:5,plot:[0,1,2,3],plot_dive_model:[4,5],plot_ecdf:[0,1],plot_fit:[0,1],plot_phas:[4,5],plot_zoc:[4,5],plt:[1,2],plu:0,poisson:[0,1,2],popul:0,postdiv:3,postdive_dur:[1,5],postdive_id:5,postdive_mean_spe:[1,5],postdive_tdist:[1,5],postdives_diff:1,postdives_mlebout:1,postdives_nlsbout:1,precis:[1,2,5],prefer:0,pressur:5,previou:0,primarili:3,print:[1,5,7],prob:[4,8],probabl:[0,4],proc1:2,proc2:2,proc_mix:2,procedur:[0,1],process:[0,3,4,5],progress:[1,5],project:3,project_date_beg:5,project_date_end:5,project_nam:5,prompt:3,proport:0,provid:[0,1,3,4,6],provider_affili:5,provider_email:5,provider_licens:5,provider_nam:5,pseudo:[5,7],pyplot:[0,1,2,4],pytest:3,python:3,qfit:5,quantil:4,quantreg:[4,5],random:[0,1,2],rang:[2,4,5,8],rate:[2,4],read:3,readili:2,reason:[0,1],record:[3,4,5],refer:8,regress:[4,5],regular:5,regularsampling_r:5,rel:2,rel_reduction_of_f_:1,reli:[0,1],remov:1,reparameter:1,repres:3,requir:[1,3],residu:5,respect:[0,4],result:[0,2,5],retriev:[4,6],robj:4,robust:0,roll:2,routin:6,row:5,row_id:[4,5,6],row_stack:2,rstr:4,run:3,runner:5,salt:5,same:[0,5],sampl:[0,2,5],sampling_r:5,sampling_rate_unit:5,save:4,save_fig:4,scale:[0,2,4,6],scientif:3,scikit:5,scipi:0,seal:5,search:3,sebastian:5,second:[0,1],section:[1,4,5],see:[4,5,6],seem:1,select:4,sensors_list:5,sep:4,seri:[0,2,5,6],session:4,set:[0,1,2,4,5,6],set_opt:[1,2,5],set_printopt:[1,2,5],set_titl:1,setup:3,shape:0,should:4,sign:[1,2,5],simpli:5,simplifi:2,simul:3,singl:[0,5],size:[1,2,5],skbout:[1,2],skdive:[3,5],skdivemov:[1,2,3,4,5,7],slow:0,smooth:[4,6],smooth_par:[1,4,5,6],sname:5,solut:0,sort:0,sourc:[0,3,4,5,6,7,8],southern:5,sparsiti:5,speed:[4,7],speed_calib_fit:4,speed_nam:[4,7],spline:[4,6],spline_deriv:[5,6],spluqu:[3,5],squar:[3,5],stamp:[1,3,6],stamp_div:[1,4,5,6],standard:[0,1,7],start:[0,1],stat:1,statist:[1,3,4],stats_tab:1,statu:1,std:[1,2,5],step:[1,5],stepwis:5,stick:[0,3],store:[4,6],str:[0,4,6,7,8],string:[4,7],subantarct:5,subclass:[0,4],subject:[0,1],subplot:[1,4],success:1,sum_:0,summar:3,summari:[3,5],sun:5,suppli:1,surfac:[4,5],system:4,t_i:0,take:6,target:0,tau:4,tdr:[1,3,6,7],tdr_file:[4,7],tdrdemo:5,tdrphase:[3,4],tdrsourc:[3,4],tdrx:[1,4,5,7],temperatur:5,termin:3,test:[1,4,5,7],than:[4,5],therefor:1,thi:[0,1,2,4,5,6,8],third:0,three:6,threshold:4,throughout:2,thy:6,time:[2,3,4,6],time_budget:[4,5,6],timedelta64:1,timedelta:1,to_numpi:2,tool:0,total:[1,5],total_second:1,transform:0,transit:0,tree:3,trivial:6,tupl:4,two:[0,3,4],type:[0,1,3,4,6,7,8],underli:0,underwat:6,uniform:2,unimod:[1,4,5,6],unit:5,units_label:5,units_nam:5,unittest:3,unlik:[4,6],updat:[4,6],upper:0,usag:1,use:[0,4,5,8],used:[0,4,6,8],user:3,using:[0,4,5],util:3,valu:[0,1,2,4,5],variabl:[1,2,4,5,7],varianc:2,via:[0,3,4,6],view:5,vignett:5,visual:[2,3],wai:1,weak:8,were:4,wet:[4,5,6],wet_act:[4,6],wet_cond:[4,6],wet_dri:[4,5,6],wet_thr:[1,4,5,6],when:6,where:[0,2,4,7],whether:[0,4,6,7],which:[3,4,6],width:[0,1],wildlif:5,window:4,without:1,work:5,would:0,wrap:4,x27:5,x_break:0,xarrai:[4,5,6,7,8],xbout:2,xlim:[4,5],ylim:4,yyyi:5,zero:[4,5,6,8],zoc:[3,4,5],zoc_depth:4,zoc_method:[1,4,5]},titles:["Bout analysis","Bout analysis","Simulating bouts","scikit-diveMove Documentation","TDR class","Diving behaviour analysis","TDRPhases class","TDRSource class","ZOC class"],titleterms:{"abstract":0,"class":[0,4,6,7,8],NLS:2,access:5,analys:4,analysi:[0,1,5],api:[0,4],attribut:5,behaviour:5,bout:[0,1,2],broken:1,budget:5,calcul:1,calibr:[4,5],compar:2,data:5,demo:3,depend:3,detect:4,develop:3,dive:5,divemov:3,document:3,durat:1,estim:[1,2],file:5,gener:2,indic:3,instal:3,instanc:5,least:[0,1,2],likelihood:[0,1,2],linear:[1,2],main:4,maximum:[0,1,2],measur:5,method:[0,4,6,8],mixtur:2,mle:2,model:[0,1],modul:3,non:[1,2],nonlinear:0,phase:[4,5],plot:[4,5],postdiv:1,process:[1,2],read:5,scikit:3,simul:2,speed:5,squar:[0,1,2],stamp:5,statist:5,stick:1,summari:[0,4,6,8],tabl:3,tdr:[4,5],tdrphase:6,tdrsourc:7,test:3,three:1,time:5,two:[1,2],via:1,zoc:8}})

diff --git a/tdrdemo.html b/tdrdemo.html
@@ -502,10 +502,10 @@ Attributes:
     units_label:         meters
     column_name:         depth
     axes:                D
-    files:               dives.csv</pre><div class='xr-wrap' hidden><div class='xr-header'><div class='xr-obj-type'>xarray.DataArray</div><div class='xr-array-name'>'depth'</div><ul class='xr-dim-list'><li><span class='xr-has-index'>date_time</span>: 34199</li></ul></div><ul class='xr-sections'><li class='xr-section-item'><div class='xr-array-wrap'><input id='section-40f4a49c-15ec-4fd9-bb1c-661bea9bff41' class='xr-array-in' type='checkbox' checked><label for='section-40f4a49c-15ec-4fd9-bb1c-661bea9bff41' title='Show/hide data repr'><svg class='icon xr-icon-database'><use xlink:href='#icon-database'></use></svg></label><div class='xr-array-preview xr-preview'><span>nan nan nan nan nan nan nan nan ... nan nan nan nan nan nan nan nan</span></div><div class='xr-array-data'><pre>array([+nan, +nan, +nan, ..., +nan, +nan, +nan])</pre></div></div></li><li class='xr-section-item'><input id='section-9403383b-a8e9-4797-9bcc-f9dad4950fc9' class='xr-section-summary-in' type='checkbox'  checked><label for='section-9403383b-a8e9-4797-9bcc-f9dad4950fc9' class='xr-section-summary' >Coordinates: <span>(1)</span></label><div class='xr-section-inline-details'></div><div class='xr-section-details'><ul class='xr-var-list'><li class='xr-var-item'><div class='xr-var-name'><span class='xr-has-index'>date_time</span></div><div class='xr-var-dims'>(date_time)</div><div class='xr-var-dtype'>datetime64[ns]</div><div class='xr-var-preview xr-preview'>2002-01-05T11:32:00 ... 2002-01-...</div><input id='attrs-6d0458e5-3394-4c22-8ec8-908ece259a0b' class='xr-var-attrs-in' type='checkbox' disabled><label for='attrs-6d0458e5-3394-4c22-8ec8-908ece259a0b' title='Show/Hide attributes'><svg class='icon xr-icon-file-text2'><use xlink:href='#icon-file-text2'></use></svg></label><input id='data-0b57bddd-a9f1-4c03-86c6-18ff9d5c0e72' class='xr-var-data-in' type='checkbox'><label for='data-0b57bddd-a9f1-4c03-86c6-18ff9d5c0e72' title='Show/Hide data repr'><svg class='icon xr-icon-database'><use xlink:href='#icon-database'></use></svg></label><div class='xr-var-attrs'><dl class='xr-attrs'></dl></div><div class='xr-var-data'><pre>array([&#x27;2002-01-05T11:32:00.000000000&#x27;, &#x27;2002-01-05T11:32:05.000000000&#x27;,
+    files:               dives.csv</pre><div class='xr-wrap' hidden><div class='xr-header'><div class='xr-obj-type'>xarray.DataArray</div><div class='xr-array-name'>'depth'</div><ul class='xr-dim-list'><li><span class='xr-has-index'>date_time</span>: 34199</li></ul></div><ul class='xr-sections'><li class='xr-section-item'><div class='xr-array-wrap'><input id='section-896c583c-f468-404f-bf5e-5cfcecab9871' class='xr-array-in' type='checkbox' checked><label for='section-896c583c-f468-404f-bf5e-5cfcecab9871' title='Show/hide data repr'><svg class='icon xr-icon-database'><use xlink:href='#icon-database'></use></svg></label><div class='xr-array-preview xr-preview'><span>nan nan nan nan nan nan nan nan ... nan nan nan nan nan nan nan nan</span></div><div class='xr-array-data'><pre>array([+nan, +nan, +nan, ..., +nan, +nan, +nan])</pre></div></div></li><li class='xr-section-item'><input id='section-8ea2b53f-b9cd-4c95-b5d8-ce381ecb62da' class='xr-section-summary-in' type='checkbox'  checked><label for='section-8ea2b53f-b9cd-4c95-b5d8-ce381ecb62da' class='xr-section-summary' >Coordinates: <span>(1)</span></label><div class='xr-section-inline-details'></div><div class='xr-section-details'><ul class='xr-var-list'><li class='xr-var-item'><div class='xr-var-name'><span class='xr-has-index'>date_time</span></div><div class='xr-var-dims'>(date_time)</div><div class='xr-var-dtype'>datetime64[ns]</div><div class='xr-var-preview xr-preview'>2002-01-05T11:32:00 ... 2002-01-...</div><input id='attrs-24332f81-0e0b-4b64-83f9-a38c5bbcd43e' class='xr-var-attrs-in' type='checkbox' disabled><label for='attrs-24332f81-0e0b-4b64-83f9-a38c5bbcd43e' title='Show/Hide attributes'><svg class='icon xr-icon-file-text2'><use xlink:href='#icon-file-text2'></use></svg></label><input id='data-d1ad3991-8682-41f5-8775-b8b850c92019' class='xr-var-data-in' type='checkbox'><label for='data-d1ad3991-8682-41f5-8775-b8b850c92019' title='Show/Hide data repr'><svg class='icon xr-icon-database'><use xlink:href='#icon-database'></use></svg></label><div class='xr-var-attrs'><dl class='xr-attrs'></dl></div><div class='xr-var-data'><pre>array([&#x27;2002-01-05T11:32:00.000000000&#x27;, &#x27;2002-01-05T11:32:05.000000000&#x27;,
        &#x27;2002-01-05T11:32:10.000000000&#x27;, ..., &#x27;2002-01-07T11:01:40.000000000&#x27;,
        &#x27;2002-01-07T11:01:45.000000000&#x27;, &#x27;2002-01-07T11:01:50.000000000&#x27;],
-      dtype=&#x27;datetime64[ns]&#x27;)</pre></div></li></ul></div></li><li class='xr-section-item'><input id='section-4bd8b8fb-4dee-4180-87a1-77de8b627f62' class='xr-section-summary-in' type='checkbox'  ><label for='section-4bd8b8fb-4dee-4180-87a1-77de8b627f62' class='xr-section-summary' >Attributes: <span>(12)</span></label><div class='xr-section-inline-details'></div><div class='xr-section-details'><dl class='xr-attrs'><dt><span>sampling :</span></dt><dd>regular</dd><dt><span>sampling_rate :</span></dt><dd>5</dd><dt><span>sampling_rate_unit :</span></dt><dd>s</dd><dt><span>name :</span></dt><dd>P</dd><dt><span>full_name :</span></dt><dd>Depth</dd><dt><span>description :</span></dt><dd>dive depth</dd><dt><span>units :</span></dt><dd>m H2O</dd><dt><span>units_name :</span></dt><dd>meters H2O (salt)</dd><dt><span>units_label :</span></dt><dd>meters</dd><dt><span>column_name :</span></dt><dd>depth</dd><dt><span>axes :</span></dt><dd>D</dd><dt><span>files :</span></dt><dd>dives.csv</dd></dl></div></li></ul></div></div></div></div>
+      dtype=&#x27;datetime64[ns]&#x27;)</pre></div></li></ul></div></li><li class='xr-section-item'><input id='section-badc5787-dc37-4884-bd6d-7c71a09c918f' class='xr-section-summary-in' type='checkbox'  ><label for='section-badc5787-dc37-4884-bd6d-7c71a09c918f' class='xr-section-summary' >Attributes: <span>(12)</span></label><div class='xr-section-inline-details'></div><div class='xr-section-details'><dl class='xr-attrs'><dt><span>sampling :</span></dt><dd>regular</dd><dt><span>sampling_rate :</span></dt><dd>5</dd><dt><span>sampling_rate_unit :</span></dt><dd>s</dd><dt><span>name :</span></dt><dd>P</dd><dt><span>full_name :</span></dt><dd>Depth</dd><dt><span>description :</span></dt><dd>dive depth</dd><dt><span>units :</span></dt><dd>m H2O</dd><dt><span>units_name :</span></dt><dd>meters H2O (salt)</dd><dt><span>units_label :</span></dt><dd>meters</dd><dt><span>column_name :</span></dt><dd>depth</dd><dt><span>axes :</span></dt><dd>D</dd><dt><span>files :</span></dt><dd>dives.csv</dd></dl></div></li></ul></div></div></div></div>
 </div>
 </div>
 <div class="section" id="plotting-measured-data">
@@ -750,7 +750,7 @@ Dep. Variable:                      y   Pseudo R-squared:              0.07433
 Model:                       QuantReg   Bandwidth:                      0.2129
 Method:                 Least Squares   Sparsity:                        2.682
 Date:                Sun, 26 Jul 2020   No. Observations:                 2108
-Time:                        03:19:37   Df Residuals:                     2106
+Time:                        06:20:24   Df Residuals:                     2106
                                         Df Model:                            1
 ==============================================================================
                  coef    std err          t      P&gt;|t|      [0.025      0.975]

diff --git a/boutsimuldemo.html b/boutsimuldemo.html
@@ -226,44 +226,44 @@ iteration.</p>
     <tr>
       <th>mean</th>
       <td>0.047</td>
-      <td>3.990e-03</td>
-      <td>0.728</td>
+      <td>3.995e-03</td>
+      <td>0.729</td>
     </tr>
     <tr>
       <th>std</th>
-      <td>0.004</td>
-      <td>4.054e-04</td>
+      <td>0.005</td>
+      <td>4.016e-04</td>
       <td>0.021</td>
     </tr>
     <tr>
       <th>min</th>
-      <td>0.034</td>
-      <td>2.559e-03</td>
-      <td>0.666</td>
+      <td>0.032</td>
+      <td>2.949e-03</td>
+      <td>0.654</td>
     </tr>
     <tr>
       <th>25%</th>
       <td>0.044</td>
-      <td>3.724e-03</td>
-      <td>0.713</td>
+      <td>3.700e-03</td>
+      <td>0.714</td>
     </tr>
     <tr>
       <th>50%</th>
       <td>0.047</td>
-      <td>3.983e-03</td>
-      <td>0.727</td>
+      <td>3.998e-03</td>
+      <td>0.729</td>
     </tr>
     <tr>
       <th>75%</th>
       <td>0.050</td>
-      <td>4.272e-03</td>
+      <td>4.254e-03</td>
       <td>0.742</td>
     </tr>
     <tr>
       <th>max</th>
-      <td>0.062</td>
-      <td>5.415e-03</td>
-      <td>0.779</td>
+      <td>0.060</td>
+      <td>5.338e-03</td>
+      <td>0.799</td>
     </tr>
   </tbody>
 </table>
@@ -316,44 +316,44 @@ iteration.</p>
     <tr>
       <th>mean</th>
       <td>0.050</td>
-      <td>5.021e-03</td>
-      <td>0.699</td>
+      <td>5.000e-03</td>
+      <td>0.700</td>
     </tr>
     <tr>
       <th>std</th>
       <td>0.003</td>
-      <td>3.916e-04</td>
-      <td>0.025</td>
+      <td>3.472e-04</td>
+      <td>0.023</td>
     </tr>
     <tr>
       <th>min</th>
       <td>0.042</td>
-      <td>3.918e-03</td>
-      <td>0.630</td>
+      <td>4.017e-03</td>
+      <td>0.632</td>
     </tr>
     <tr>
       <th>25%</th>
       <td>0.048</td>
-      <td>4.753e-03</td>
-      <td>0.684</td>
+      <td>4.764e-03</td>
+      <td>0.685</td>
     </tr>
     <tr>
       <th>50%</th>
       <td>0.050</td>
-      <td>5.016e-03</td>
-      <td>0.698</td>
+      <td>4.993e-03</td>
+      <td>0.699</td>
     </tr>
     <tr>
       <th>75%</th>
       <td>0.052</td>
-      <td>5.279e-03</td>
-      <td>0.717</td>
+      <td>5.199e-03</td>
+      <td>0.715</td>
     </tr>
     <tr>
       <th>max</th>
-      <td>0.059</td>
-      <td>6.399e-03</td>
-      <td>0.766</td>
+      <td>0.058</td>
+      <td>6.338e-03</td>
+      <td>0.772</td>
     </tr>
   </tbody>
 </table>
@@ -373,7 +373,7 @@ readily assessed for NLS:</p>
 <div class="cell_output docutils container">
 <div class="output text_plain highlight-none notranslate"><div class="highlight"><pre><span></span>lambda0   -0.003
 lambda1   -0.001
-p          0.028
+p          0.029
 dtype: float64
 </pre></div>
 </div>
@@ -387,9 +387,9 @@ dtype: float64
 </div>
 </div>
 <div class="cell_output docutils container">
-<div class="output text_plain highlight-none notranslate"><div class="highlight"><pre><span></span>lambda0    2.554e-04
-lambda1    2.140e-05
-p         -1.110e-03
+<div class="output text_plain highlight-none notranslate"><div class="highlight"><pre><span></span>lambda0    7.483e-05
+lambda1   -1.330e-07
+p          1.519e-04
 dtype: float64
 </pre></div>
 </div>
